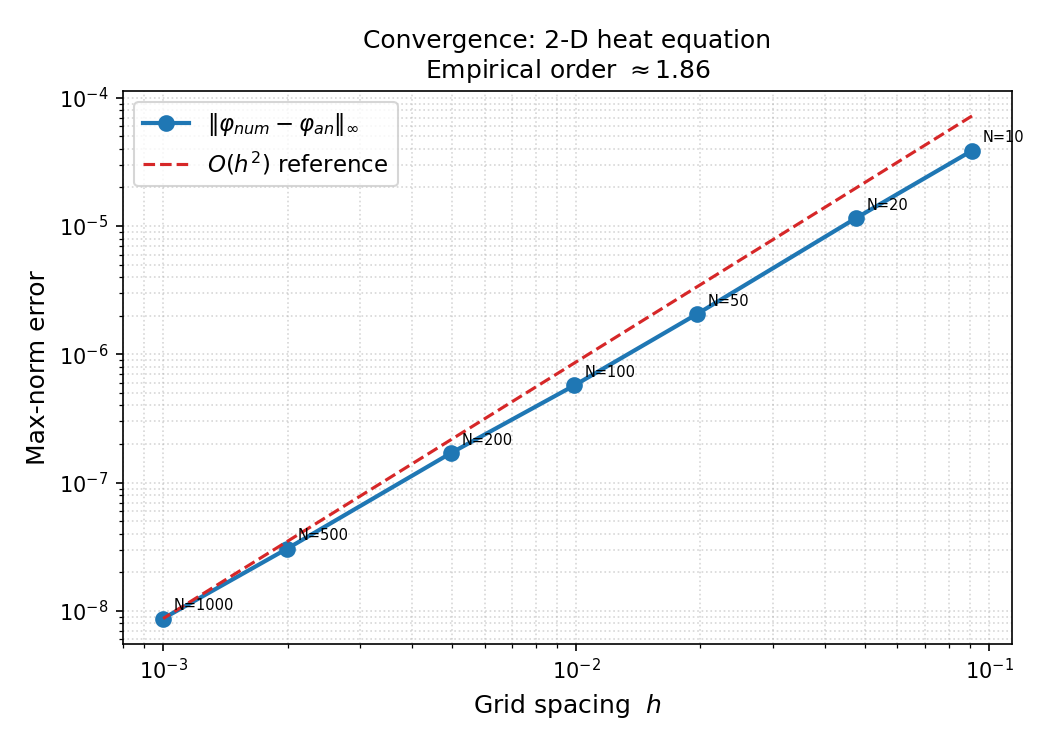
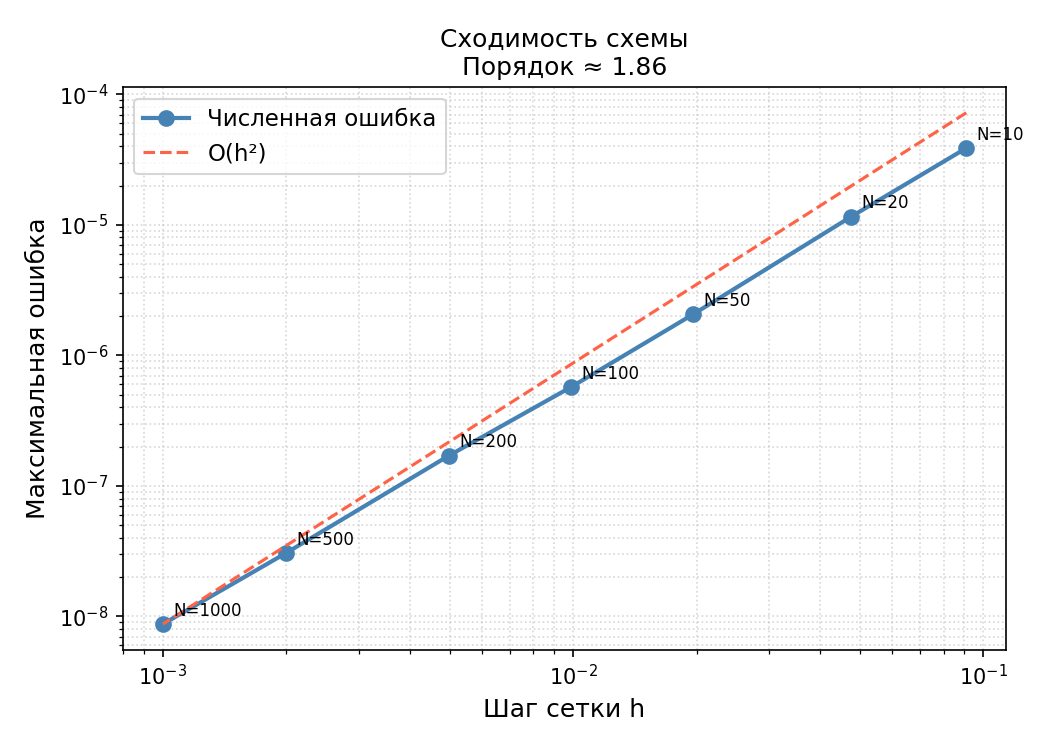
update README

diff --git a/practical work/2semester/T4/src/main.cpp b/practical work/2semester/T4/src/main.cpp
@@ -1,23 +1,3 @@
-// ─────────────────────────────────────────────────────────────────────────────
-//  2-D heat equation:   25λ φ_xx + λ φ_yy = φ_t ,   λ = 1e-4
-//
-//  Analytical solution: φ(x,y,t) = cos(πx) sin(5πy) exp(-50π²λ t)
-//
-//  Boundary / initial conditions (from the problem statement):
-//    φ(x,y,0) = cos(πx) sin(5πy)
-//    φ(x,0,t) = φ(x,1,t) = 0
-//    φ(0,y,t) =  sin(5πy) exp(-50π²λ t)
-//    φ(1,y,t) = -sin(5πy) exp(-50π²λ t)
-//
-//  Domain: x,y,t ∈ [0,1].  Interior (M×M) uniform grid, NX = NY = N.
-//
-//  We run the simulation for each grid size N ∈ {10,20,50,100,200,500,1000},
-//  advance to a fixed output time T_out ≈ 0.01 with time step τ chosen so
-//  that the CFL-like number stays modest, then record the max-norm error.
-//
-//  Results are written to  results/convergence.csv  for Python post-processing.
-// ─────────────────────────────────────────────────────────────────────────────
-
 #include <cmath>
 #include <cstddef>
 #include <cstdio>
@@ -35,48 +15,41 @@ namespace fs = std::filesystem;
 
 static constexpr double PI      = M_PI;
 static constexpr double LAMBDA  = 1e-4;
-static constexpr double Dx      = 25.0 * LAMBDA;   // coefficient in front of φ_xx
-static constexpr double Dy      = LAMBDA;           // coefficient in front of φ_yy
-static constexpr double T_OUT   = 0.01;             // fixed time at which error is measured
+static constexpr double Dx      = 25.0 * LAMBDA;
+static constexpr double Dy      = LAMBDA;
+static constexpr double T_OUT   = 0.01;
 
-// ── analytical solution ──────────────────────────────────────────────────────
+//аналитическое решение
 inline double phi_analytical(double x, double y, double t) {
     return std::cos(PI*x) * std::sin(5.0*PI*y)
            * std::exp(-50.0*PI*PI*LAMBDA*t);
 }
 
-// ── boundary conditions at time t ───────────────────────────────────────────
+//граничные условия
 inline double bc_left  (double y, double t) {  return  std::sin(5.0*PI*y)*std::exp(-50.0*PI*PI*LAMBDA*t); }
 inline double bc_right (double y, double t) {  return -std::sin(5.0*PI*y)*std::exp(-50.0*PI*PI*LAMBDA*t); }
 inline double bc_bottom(double /*x*/, double /*t*/) { return 0.0; }
 inline double bc_top   (double /*x*/, double /*t*/) { return 0.0; }
 
-// ─────────────────────────────────────────────────────────────────────────────
-//  Solve for a single grid size N (interior nodes NxN)
-//  Returns max-norm error at T_OUT
-// ─────────────────────────────────────────────────────────────────────────────
 double solve_grid(std::size_t N,
-                  std::ofstream* snapshot_out = nullptr,  // optional field dump
+                  std::ofstream* snapshot_out = nullptr,
                   double snapshot_t           = -1.0)
 {
-    const std::size_t M  = N;             // interior nodes in x
-    const std::size_t K  = N;             // interior nodes in y
+    const std::size_t M  = N;
+    const std::size_t K  = N;
     const std::size_t Ntot = M * K;
 
     const double hx  = 1.0 / static_cast<double>(N + 1);
     const double hy  = hx;
 
-    // τ: choose so that sx = τ·Dx/hx² ≤ 0.5  (generous for implicit, but keeps
-    // the iteration count of Gauss–Seidel reasonable)
-    // We also need to land near T_OUT, so we compute the number of steps.
-    const double tau_cfl = 0.5 * hx * hx / Dx;   // stability-motivated upper bound
-    const double tau_max = T_OUT / 2.0;            // at least 2 steps to T_OUT
+    const double tau_cfl = 0.5 * hx * hx / Dx;
+    const double tau_max = T_OUT / 2.0;
     double tau = std::min(tau_cfl, tau_max);
 
     std::size_t nsteps = static_cast<std::size_t>(std::ceil(T_OUT / tau));
-    tau = T_OUT / static_cast<double>(nsteps);     // adjust to hit T_OUT exactly
+    tau = T_OUT / static_cast<double>(nsteps);
 
-    // ── initial condition ──
+    //начальное состояние
     Vector<double> phi(Ntot);
     for (std::size_t k = 0; k < K; ++k) {
         double y = (k + 1) * hy;
@@ -90,7 +63,7 @@ double solve_grid(std::size_t N,
     for (std::size_t step = 0; step < nsteps; ++step) {
         double t_new = t + tau;
 
-        // boundary functions at t_new (fully implicit)
+        //неявные
         auto left   = [&](double y){ return bc_left  (y, t_new); };
         auto right  = [&](double y){ return bc_right (y, t_new); };
         auto bottom = [&](double x){ return bc_bottom(x, t_new); };
@@ -104,7 +77,6 @@ double solve_grid(std::size_t N,
         t   = t_new;
     }
 
-    // ── compute max-norm error at T_OUT ──
     double err_max = 0.0;
     for (std::size_t k = 0; k < K; ++k) {
         double y = (k + 1) * hy;
@@ -116,7 +88,6 @@ double solve_grid(std::size_t N,
         }
     }
 
-    // ── optional snapshot dump ──
     if (snapshot_out && std::fabs(t - snapshot_t) < 1e-12) {
         auto& out = *snapshot_out;
         for (std::size_t k = 0; k < K; ++k) {
@@ -133,25 +104,22 @@ double solve_grid(std::size_t N,
     return err_max;
 }
 
-// ─────────────────────────────────────────────────────────────────────────────
 int main()
 {
-    fs::create_directories("results");
-
     const std::vector<std::size_t> grid_sizes = {10, 20, 50, 100, 200, 500, 1000};
 
     // convergence table
-    std::ofstream conv("results/convergence.csv");
+    std::ofstream conv("convergence.csv");
     conv << "N,h,error_max\n";
 
     for (std::size_t N : grid_sizes) {
         std::cout << "Solving N = " << N << " ... " << std::flush;
 
-        // For N=50 also save a 2-D field snapshot (for visualisation)
+
         std::ofstream* snap_ptr = nullptr;
         std::ofstream  snap_file;
         if (N == 50) {
-            snap_file.open("results/snapshot_N50.csv");
+            snap_file.open("snapshot_N50.csv");
             snap_file << "x,y,numerical,analytical\n";
             snap_ptr = &snap_file;
         }
@@ -162,7 +130,5 @@ int main()
         conv << N << "," << h << "," << err << "\n";
         std::cout << "  h = " << h << "  max-error = " << err << "\n";
     }
-
-    std::cout << "\nResults written to results/convergence.csv\n";
     return 0;
 }

diff --git a/practical work/2semester/T4/plot_results.py b/practical work/2semester/T4/plot_results.py
@@ -1,110 +1,32 @@
 import numpy as np
 import pandas as pd
-import matplotlib
-matplotlib.use("Agg")
 import matplotlib.pyplot as plt
-from matplotlib.gridspec import GridSpec
-from scipy.interpolate import griddata
 import os
 
-OUT_DIR = "results"
-os.makedirs(OUT_DIR, exist_ok=True)
+conv = pd.read_csv('convergence.csv')
+h   = conv["h"].values
+err = conv["error_max"].values
+N   = conv["N"].values
 
-# ─── 1.  Convergence plot ────────────────────────────────────────────────────
-conv = pd.read_csv(os.path.join(OUT_DIR, "convergence.csv"))
-h    = conv["h"].values
-err  = conv["error_max"].values
-N    = conv["N"].values
-
-# Fit slope in log–log space to find empirical convergence order
-coeffs = np.polyfit(np.log(h), np.log(err), 1)
-order  = coeffs[0]
-print(f"Empirical convergence order: {order:.3f}  (expected ≈ 2.0 for O(h²) scheme)")
-
-# O(h²) reference line scaled to pass through the last data point
-ref_h2 = h**2 * (err[-1] / h[-1]**2)
+# порядок сходимости
+order = np.polyfit(np.log(h), np.log(err), 1)[0]
+print(f"Порядок сходимости: {order:.3f} (ожидается 2.0)")
 
 fig, ax = plt.subplots(figsize=(7, 5))
-ax.loglog(h, err,    "o-",  color="#1f77b4", lw=2, ms=7, label=r"$\|\varphi_{num} - \varphi_{an}\|_\infty$")
-ax.loglog(h, ref_h2, "--",  color="#d62728", lw=1.5, label=r"$O(h^2)$ reference")
 
-# Annotate grid sizes
+ax.loglog(h, err, "o-", color="steelblue", lw=2, ms=7, label="Численная ошибка")
+ax.loglog(h, h**2 * err[-1] / h[-1]**2, "--", color="tomato", lw=1.5, label="O(h²)")
+
 for hi, ei, ni in zip(h, err, N):
-    ax.annotate(f"N={ni}", xy=(hi, ei),
-                xytext=(5, 4), textcoords="offset points", fontsize=7)
+    ax.annotate(f"N={ni}", xy=(hi, ei), xytext=(5, 4),
+                textcoords="offset points", fontsize=8)
 
-ax.set_xlabel("Grid spacing  $h$",       fontsize=12)
-ax.set_ylabel(r"Max-norm error",          fontsize=12)
-ax.set_title(r"Convergence: 2-D heat equation"
-             "\n"
-             rf"Empirical order $\approx {order:.2f}$",
-             fontsize=12)
+ax.set_xlabel("Шаг сетки h", fontsize=12)
+ax.set_ylabel("Максимальная ошибка", fontsize=12)
+ax.set_title(f"Сходимость схемы\nПорядок ≈ {order:.2f}", fontsize=12)
 ax.legend(fontsize=11)
 ax.grid(True, which="both", ls=":", alpha=0.5)
-fig.tight_layout()
-conv_path = os.path.join(OUT_DIR, "convergence.png")
-fig.savefig(conv_path, dpi=150)
-print(f"Saved {conv_path}")
 
-# ─── 2.  Field comparison for N=50 ──────────────────────────────────────────
-snap_path = os.path.join(OUT_DIR, "snapshot_N50.csv")
-if os.path.exists(snap_path):
-    snap = pd.read_csv(snap_path)
-    x_pts = snap["x"].values
-    y_pts = snap["y"].values
-    num   = snap["numerical"].values
-    ana   = snap["analytical"].values
-    diff  = np.abs(num - ana)
-
-    # Interpolate onto a regular 200×200 grid for smooth imshow
-    xi = np.linspace(x_pts.min(), x_pts.max(), 200)
-    yi = np.linspace(y_pts.min(), y_pts.max(), 200)
-    XI, YI = np.meshgrid(xi, yi)
-    pts = np.column_stack([x_pts, y_pts])
-
-    Z_num  = griddata(pts, num,  (XI, YI), method="linear")
-    Z_ana  = griddata(pts, ana,  (XI, YI), method="linear")
-    Z_diff = griddata(pts, diff, (XI, YI), method="linear")
-
-    fig2 = plt.figure(figsize=(14, 4.5))
-    gs   = GridSpec(1, 3, figure=fig2, wspace=0.35)
-
-    def add_panel(gs_slot, Z, title, cmap="RdBu_r"):
-        ax = fig2.add_subplot(gs_slot)
-        im = ax.imshow(Z, origin="lower", extent=[0, 1, 0, 1],
-                       aspect="equal", cmap=cmap)
-        ax.set_title(title, fontsize=11)
-        ax.set_xlabel("$x$"); ax.set_ylabel("$y$")
-        fig2.colorbar(im, ax=ax, fraction=0.046, pad=0.04)
-        return ax
-
-    add_panel(gs[0], Z_num,  r"Numerical $\varphi_{num}$  (N=50, t=0.01)")
-    add_panel(gs[1], Z_ana,  r"Analytical $\varphi_{an}$  (t=0.01)")
-    add_panel(gs[2], Z_diff, r"$|\varphi_{num}-\varphi_{an}|$", cmap="hot_r")
-
-    field_path = os.path.join(OUT_DIR, "field_N50.png")
-    fig2.savefig(field_path, dpi=150, bbox_inches="tight")
-    print(f"Saved {field_path}")
-
-# ─── 3.  Convergence order bar chart ────────────────────────────────────────
-# local slopes between consecutive points
-local_orders = (np.diff(np.log(err)) / np.diff(np.log(h)))
-labels = [f"N={n1}→{n2}" for n1, n2 in zip(N[:-1], N[1:])]
-
-fig3, ax3 = plt.subplots(figsize=(8, 4))
-bars = ax3.bar(labels, local_orders, color="#2ca02c", edgecolor="black", alpha=0.8)
-ax3.axhline(2.0, color="red", lw=1.5, ls="--", label="Theoretical order 2")
-ax3.set_ylabel("Local convergence order", fontsize=11)
-ax3.set_title("Local convergence order between consecutive grid sizes", fontsize=11)
-ax3.legend(fontsize=10)
-ax3.set_ylim(0, 3)
-for bar, val in zip(bars, local_orders):
-    ax3.text(bar.get_x() + bar.get_width()/2, bar.get_height() + 0.05,
-             f"{val:.2f}", ha="center", va="bottom", fontsize=9)
-fig3.tight_layout()
-order_path = os.path.join(OUT_DIR, "local_order.png")
-fig3.savefig(order_path, dpi=150)
-print(f"Saved {order_path}")
-
-plt.close("all")
-print("\nAll plots saved to results/")
+plt.tight_layout()
+plt.savefig('convergence.png', dpi=150)
+print("Сохранено: convergence.png")

diff --git a/practical work/2semester/T4/gauss_seidel.hpp b/practical work/2semester/T4/gauss_seidel.hpp
@@ -3,14 +3,6 @@
 #include <cmath>
 #include <stdexcept>
 
-// ─────────────────────────────────────────────────────────────────────────────
-//  Gauss–Seidel iteration for Ax = b
-//
-//  For each row i:
-//      x_i^{new} = (b_i - sum_{j<i} a_{ij} x_j^{new} - sum_{j>i} a_{ij} x_j^{old}) / a_{ii}
-//
-//  Works directly on the CSR representation.
-// ─────────────────────────────────────────────────────────────────────────────
 struct GaussSeidelResult {
     Vector<double> x;
     std::size_t    iterations;
@@ -19,17 +11,14 @@ struct GaussSeidelResult {
 
 GaussSeidelResult gauss_seidel(const CSR_matrix& A,
                                const Vector<double>& b,
-                               Vector<double> x0,          // initial guess (copy)
+                               Vector<double> x0,
                                double tol        = 1e-10,
                                std::size_t maxiter = 100000)
 {
     const std::size_t n = A.rows;
-    if (b.size() != n || x0.size() != n)
-        throw std::invalid_argument("gauss_seidel: dimension mismatch");
 
-    Vector<double> x = x0;   // working solution
+    Vector<double> x = x0;
 
-    // Pre-extract diagonal entries for fast access
     std::vector<double> diag(n, 0.0);
     std::vector<std::size_t> diag_pos(n, SIZE_MAX);
     for (std::size_t i = 0; i < n; ++i)
@@ -43,10 +32,6 @@ GaussSeidelResult gauss_seidel(const CSR_matrix& A,
         double max_delta = 0.0;
 
         for (std::size_t i = 0; i < n; ++i) {
-            if (diag[i] == 0.0)
-                throw std::runtime_error("gauss_seidel: zero diagonal at row " + std::to_string(i));
-
-            // sigma = sum_{j != i} a_{ij} * x_j   (using most-recent x values)
             double sigma = 0.0;
             for (std::size_t p = A.row_ptr[i]; p < A.row_ptr[i+1]; ++p) {
                 std::size_t j = A.col_idx[p];

diff --git a/practical work/2semester/T4/SLAE.hpp b/practical work/2semester/T4/SLAE.hpp
@@ -6,9 +6,6 @@
 #include <stdexcept>
 #include <cmath>
 
-// ─────────────────────────────────────────────
-//  Dense vector
-// ─────────────────────────────────────────────
 template<typename T>
 class Vector {
 public:
@@ -19,9 +16,6 @@ public:
     std::size_t size() const { return data.size(); }
 };
 
-// ─────────────────────────────────────────────
-//  CSR sparse matrix (5-diagonal structure)
-// ─────────────────────────────────────────────
 struct CSR_matrix {
     std::size_t rows, cols;
     std::vector<double>      val;
@@ -30,13 +24,11 @@ struct CSR_matrix {
 
     CSR_matrix() : rows(0), cols(0) {}
 
-    // Build from COO map
     CSR_matrix(const std::map<std::array<std::size_t,2>, double>& A,
                std::size_t nrows, std::size_t ncols)
         : rows(nrows), cols(ncols)
     {
         row_ptr.resize(rows + 1, 0);
-        // count entries per row
         for (auto& [key, v] : A) row_ptr[key[0] + 1]++;
         for (std::size_t i = 1; i <= rows; ++i) row_ptr[i] += row_ptr[i-1];
 
@@ -50,8 +42,6 @@ struct CSR_matrix {
             val[p]     = v;
         }
     }
-
-    // Matrix–vector product  y = A*x
     Vector<double> matvec(const Vector<double>& x) const {
         Vector<double> y(rows, 0.0);
         for (std::size_t i = 0; i < rows; ++i)
@@ -60,10 +50,6 @@ struct CSR_matrix {
         return y;
     }
 };
-
-// ─────────────────────────────────────────────
-//  SLAE container
-// ─────────────────────────────────────────────
 template<typename T>
 struct SLAE {
     CSR_matrix     A;

diff --git a/README.md b/README.md
@@ -1,4 +1,4 @@
 # 📘 Computational Mathematics — MIPT Course Repository
-Данный репозиторий посвящен курсу вычислительной математики МФТИ. В папке practical work лежат задания, которые выполнялись в течение 5ого семестра.
+Данный репозиторий посвящен курсу вычислительной математики МФТИ. В папке practical work лежат задания, которые выполнялись в течение 5ого и 6ого семетров.
 
 
